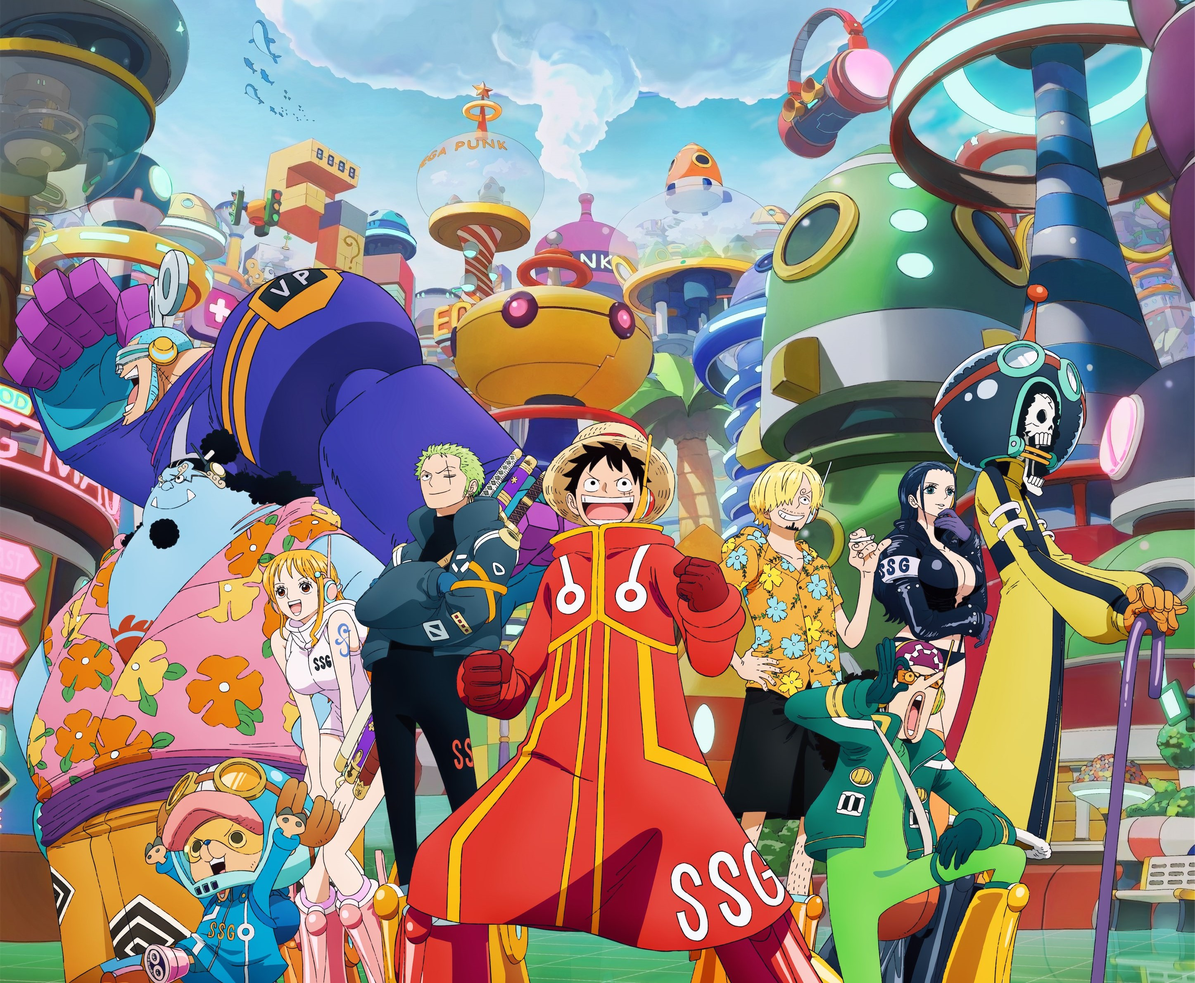
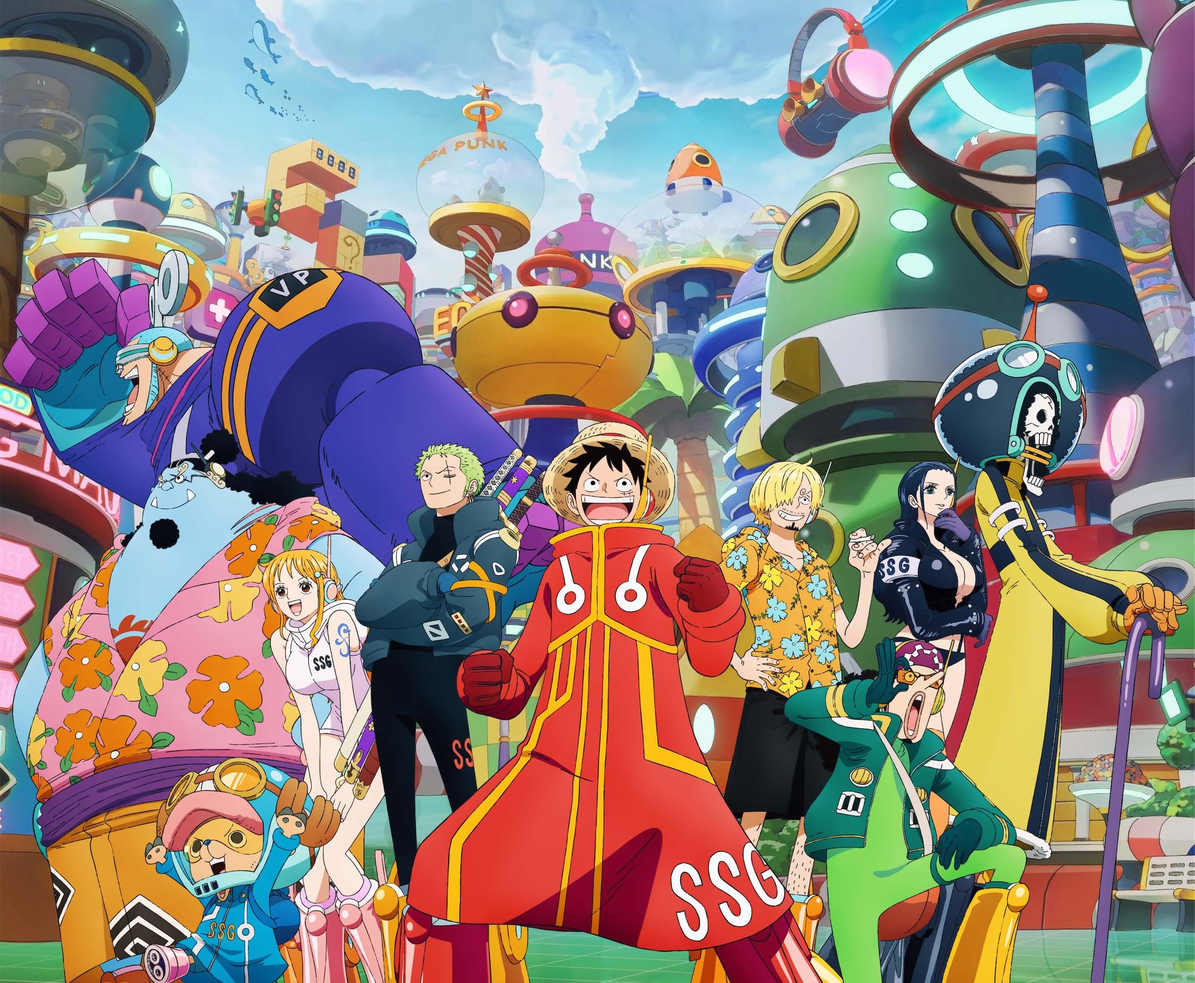
Updated: compressed images

diff --git a/css/main.css b/css/main.css
@@ -1,7 +1,7 @@
 body
 {
   background-image: url(../Images/1342304.jpeg);
-  background-size: 100% 100%;
+  background-size: cover;
   background-attachment: fixed;
   font-family: "Dancing Script", cursive;
 }
@@ -10,7 +10,7 @@ body
   width: 95%;
   height: 600px;
   border: 5px solid white;
-  background-image: url(../Images/1350086.jpeg);
+  background-image: url(../Images/1350086-min.jpeg);
   background-size: cover;
   margin: 50px auto 20px;
   border-radius: 20px;
@@ -46,7 +46,7 @@ body
 {
   background-image: url(../Images/375473.jpeg);
   background-repeat: no-repeat;
-  background-size: 100% 100% ;
+  background-size: cover;
   width: 50%;
   height: 50%;
   float: left;
@@ -69,7 +69,7 @@ body
 .item2
 {
   background-image: url(../Images/1327091.png);
-  background-size: contain;
+  background-size: cover;
   width: 45%;
   height: 50%;
   float: right;
